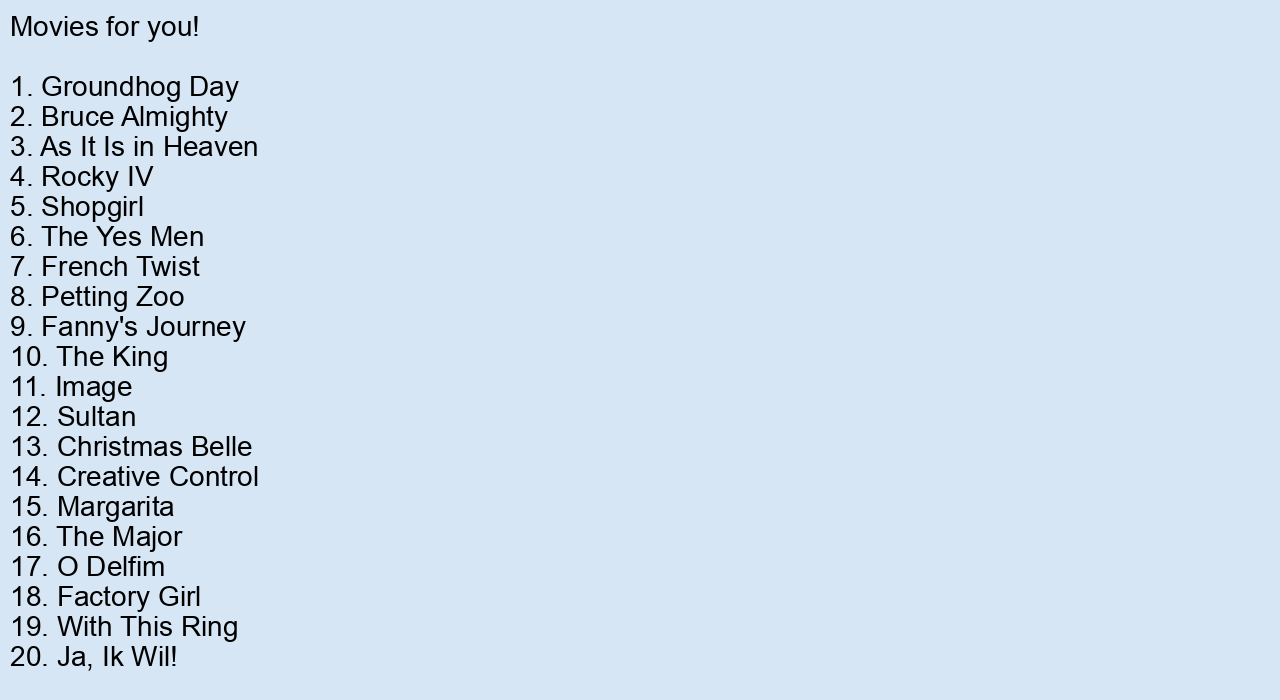
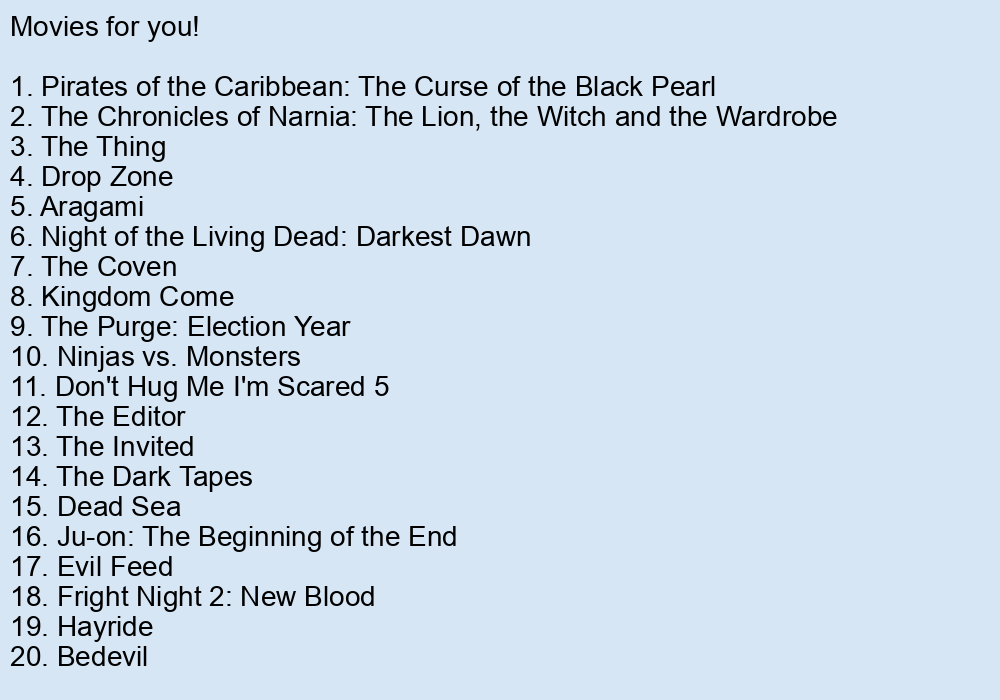
final commit

Changed region(s): [[0.0, 0.09, 0.837, 0.96], [0.0, 0.0, 0.217, 0.06]]

diff --git a/pages/templates/output.html b/pages/templates/output.html
@@ -64,6 +64,7 @@
             Released Date : {{ movie.6 }}<br><br>
             Overview : {{ movie.5 }}<br><br>
             Vote Average : {{ movie.4 }}<br><br>
+            Expected Rating (AI) : {{ movie.9 }}<br><br>
             <br><br><br>
         {% endfor %}
         <br>

diff --git a/pages/views.py b/pages/views.py
@@ -4,7 +4,7 @@ from .forms import InputForm
 from metadata.models import Movie, Genre, Movie_Genre, First_Genre
 from operator import itemgetter
 from PIL import Image, ImageDraw, ImageFont 
-from .AImodels.model1 import ModelFirst
+from .AImodels.model1_v2 import ModelFirst
 
 import tensorflow as tf
 import numpy as np
@@ -13,7 +13,6 @@ import operator
 import os
 import datetime
 import random
-
 
 sort_movies = {}
 
@@ -32,7 +31,6 @@ def index(req):
     return render(req, 'index.html', res_data)
 
 
-
 def input(request):
     movies = []
     form=InputForm()
@@ -46,9 +44,9 @@ def input(request):
         genre = request.POST.getlist('genre', '')
 
         if(len(search)>=2):
-            print("======================")
+            print("\n\n================================")
             print('searching keword : ', search)
-            print("======================")
+            print("================================")
             res_data = {}#전송할 res_data 생성
 
             qs = Movie.objects.filter(title__contains=search)
@@ -92,7 +90,10 @@ def input(request):
                 request.session['age'] = age
                 request.session['sex'] = sex
                 request.session['genre'] = genre
-                
+                print("\n\n>> Input values")
+                print("age: ",age)
+                print("sex: ",sex)
+                print("genre: ",genre)
                 return redirect('/loading_')
             else:
                 return render(request, 'input.html', {'form': form})
@@ -113,7 +114,7 @@ def search(req):
             id_title[movie[0]] = movie[7]
         
         id_title = sorted(id_title.items())
-        print('===sorted id_title(asc)===')
+        print('\n\n=== sorted id_title(asc) ===')
         print(id_title)
         
         for ids in id_title:
@@ -128,7 +129,7 @@ def search(req):
         for movie in m['movies']:
             id_title[movie[0]] = movie[7]
         id_title = sorted(id_title.items(), reverse=True)
-        print('===sorted id_title(desc)===')
+        print('\n\n=== sorted id_title(desc) ===')
         print(id_title)
         
         for ids in id_title:
@@ -141,7 +142,7 @@ def search(req):
         for movie in m['movies']:
             id_rating[movie[4]] = movie[7]
         id_rating = sorted(id_rating.items(), reverse=True)
-        print('===sorted id_rating===')
+        print('\n\n=== sorted id_rating ===')
         print(id_rating)
         for ids in id_rating:
             for movie in m['movies']:
@@ -156,7 +157,7 @@ def search(req):
         for movie in m['movies']:
             id_date[movie[6]] = movie[7]
         id_date = sorted(id_date.items())
-        print('===sorted date(asc)===')
+        print('\n\n=== sorted date(asc) ===')
         print(id_date)
         for ids in id_date:
             for movie in m['movies']:
@@ -170,7 +171,7 @@ def search(req):
         for movie in m['movies']:
             id_date[movie[6]] = movie[7]
         id_date = sorted(id_date.items(), reverse=True)
-        print('===sorted date(desc)===')
+        print('\n\n=== sorted date(desc) ===')
         print(id_date)
         for ids in id_date:
             for movie in m['movies']:
@@ -183,7 +184,7 @@ def search(req):
 
 def make_image(message):####################
     # Image size
-    W = 1280
+    W = 1000
     H = 700
     bg_color = 'rgb(214, 230, 245)'  # 아이소프트존
 
@@ -204,7 +205,7 @@ def output(request):
     sex = request.session['sex']
     genre = request.session['genre']
     movieId_list = request.session['movie_list']
-    
+    movie_score_list = request.session['movie_score_list'] #평점정보
     
     res_data['age'] = age
     res_data['sex'] = sex
@@ -215,7 +216,7 @@ def output(request):
     movie_list = []
 
     movies = []
-    print('--영화 추천 결과--')####################
+    print('\n\n>> 영화 추천 결과')####################
     for i in range(len(movieId_list)):
         a = Movie.objects.get(id=movieId_list[i])
         info_list = []
@@ -235,6 +236,7 @@ def output(request):
             gn = Genre.objects.get(id=g.genre_id)
             genre_names.append(str(gn))
         info_list.append(genre_names)
+        info_list.append(movie_score_list[i])
         movies.append(info_list)
         res_data['movies'] = movies#res_data에 넣어주기
         sort_movies['movies'] = movies#sort_movies에 넣어주기(sort용 변수)
@@ -329,8 +331,7 @@ def output(request):
     return render(request, 'output.html', res_data)
 
 def loading(request):
-    print('here is loading')
-    #res_data={}
+    
     flag=0
     
     age = int(request.session['age'])
@@ -340,15 +341,14 @@ def loading(request):
         sex=77
     else:
         sex=70
-    #print(age, sex, genre)
 
     # model 1####################
-    print("Model1 시작: ",datetime.datetime.now())
+    print("\n\n>> Model1 시작: ",datetime.datetime.now())
     mf = ModelFirst()
     result = mf.model1(genre)
-    print("추천된 장르(model1): ",result)
+    print(">> 추천된 장르(model1): ",result,"\n\n")
     
-    print("Model2에 넣을 데이터처리 시작: ",datetime.datetime.now())
+    #print(">> Model2에 넣을 데이터처리 시작: ",datetime.datetime.now())
     new_result=[]
 
     # genre_id함수를 통해 장르 이름을 id값으로 반환해주는 반복문
@@ -394,7 +394,7 @@ def loading(request):
     id_score_dict = {} # movieID, 선호도 저장할 딕셔너리
 
     
-    print("Model2 시작: ",datetime.datetime.now())
+    print("\n\n>> Model2 시작: ",datetime.datetime.now())
 
     ####################
     # genre 1 CNN 돌리기
@@ -423,24 +423,31 @@ def loading(request):
         predictions = model2.predict(samples_to_predict)
         id_score_dict[genre3_list[i]]=predictions[0][0]
 
-    print("Model2 끝: ",datetime.datetime.now())
+    #print(">> Model2 끝: ",datetime.datetime.now())
 
 
     # 매칭시켜서 저장해놓은 딕셔너리에서 사용자의 선호도 top 10개 영화 id 찾기
     sorted_dict = sorted(id_score_dict.items(), reverse=True, key=operator.itemgetter(1))
+    print("\n\n>> 영화id, 예상평점")
+    print(sorted_dict)
     
-    recommended_movies = []
-    
+    recommended_movies_id = []
+    recommended_movies_score = []
+
     for i in range(20):#정렬된 영화를 순차적으로 추천 영화에 넣어주기
-        recommended_movies.append(sorted_dict[i][0])
+        recommended_movies_id.append(sorted_dict[i][0])
+        recommended_movies_score.append(str(sorted_dict[i][1]))
+    
+    print("\n\n>> 예상평점 상위 20개 영화의 id, 예상평점")
+    for i in range(20):
+        print(recommended_movies_id[i],end='')
+        print(", ",recommended_movies_score[i])
 
-
-    #res_data['movie_list'] = recommended_movies
-    request.session['movie_list'] = recommended_movies
+    request.session['movie_list'] = recommended_movies_id
+    request.session['movie_score_list']= recommended_movies_score
 
     flag=1
     if(flag==1):
-        print("loading 페이지 끝: ",datetime.datetime.now())
         return redirect('/output')
 
     return render(request, 'loading.html')

diff --git a/pages/AImodels/model1_v2.py b/pages/AImodels/model1_v2.py
@@ -1,12 +1,3 @@
-# -*- coding: utf-8 -*-
-"""model1.ipynb
-
-Automatically generated by Colaboratory.
-
-Original file is located at
-    https://colab.research.google.com/drive/1E37sn1O0tZ-s70MlWQa15kf-u8AgrvEu
-"""
-
 import pandas as pd
 import numpy as np
 import math
@@ -17,12 +8,12 @@ from sklearn.metrics.pairwise import linear_kernel, cosine_similarity
 from sklearn.decomposition import TruncatedSVD
 from sklearn.preprocessing import StandardScaler, MinMaxScaler
 
-# 수정계획 1 : 상위 한개의 장르만 추출하는데 그게 아니라 상위 5개의 장르를 뽑아
+# 수정계획 1 : 상위 한개의 장르만 추출하는데 그게 아니라 상위 3개의 장르를 뽑아
 #             그 중 선택한 장르와 가장 상관관계가 높은 장르를 추천하는 것을 어떨까?
 class ModelFirst:
     def model1(self, selected_genres):
-        df = pd.read_csv('/content/drive/MyDrive/data/user_pref.csv')
-
+        df = pd.read_csv('pages/AImodels/user_pref.csv')
+        corr = np.load('pages/AImodels/corr_save.npy')
         user_pref = df.to_numpy()
         transformer = StandardScaler()
         transformer.fit(user_pref)
@@ -43,31 +34,52 @@ class ModelFirst:
             common_df.iloc[i] = df.iloc[idx]
             i = i + 1
 
-        # common_np = common_df.to_numpy()
+        genre_title = df.columns
+        genre_list = list(genre_title)
+        first_idx = genre_list.index(selected_genres[0])
+        second_idx = genre_list.index(selected_genres[1])
+        co1 = corr[first_idx]
+        co2 = corr[second_idx]
+
+        select_values = common_df.values
+
+        pred1 = (select_values * co1) / np.array([np.abs(co1).sum(axis=0)])
+        pred1_df = pd.DataFrame(pred1, index=common_df.index, columns = common_df.columns)
         index = common_df.index
         result_dict = {}
         for i in index:
-            sorted_tuple = common_df.iloc[i].sort_values(ascending=False)
+            sorted_tuple = pred1_df.iloc[i].sort_values(ascending=False)
             for genre in sorted_tuple.head(5).index.tolist():
                 if genre not in result_dict and genre not in selected_genres:
                     result_dict[genre] = 0
                 if genre not in selected_genres:
                     result_dict[genre] += 1
-
         sorted_result_dict = sorted(result_dict.items(), key=operator.itemgetter(1), reverse=True)
         recommend_genres = []
         for k,v in sorted_result_dict:
             if v >= 450:
                 recommend_genres.append(k)
 
-        corr = np.load('/content/drive/MyDrive/data/corr_save.npy')
+        pred2 = (select_values * co2) / np.array([np.abs(co2).sum(axis=0)])
+        pred_df2 = pd.DataFrame(pred2, index=common_df.index, columns = common_df.columns)
+        index = pred_df2.index
+        result_dict = {}
+        for i in index:
+            sorted_tuple = pred_df2.iloc[i].sort_values(ascending=False)
+            for genre in sorted_tuple.head(5).index.tolist():
+                if genre not in result_dict and genre not in selected_genres:
+                    result_dict[genre] = 0
+                if genre not in selected_genres:
+                    result_dict[genre] += 1
+        sorted_result_dict = sorted(result_dict.items(), key=operator.itemgetter(1), reverse=True)
+        for k,v in sorted_result_dict:
+            if v >= 450 and k not in recommend_genres:
+                recommend_genres.append(k)
 
-        genre_title = df.columns
-        genre_list = list(genre_title)
+        # print(recommend_genres)
+
         first_corr_list = []
         second_corr_list = []
-        first_idx= genre_list.index(selected_genres[0])
-        second_idx = genre_list.index(selected_genres[1])
         for g in recommend_genres:
             idx = genre_list.index(g)
             first_corr_value = corr[first_idx][idx]
@@ -83,16 +95,9 @@ class ModelFirst:
         mean_idx = mean_list.index(max)
 
         result = recommend_genres[mean_idx]
-        
-        while(True): 
-            if result in selected_genres:
-                result_df.drop(result, axis= 1, inplace=True)
-                result = result_df.max().idxmax()
-            else:
-                break
+        # print(result)
 
         temp = selected_genres
         result = list(result.split())
         result = temp+result
         return result
-

diff --git a/pages/forms.py b/pages/forms.py
@@ -14,7 +14,7 @@ class InputForm(forms.Form):
         ('Thriller', '스릴러'),('Horror', '공포'),('History', '역사'),
         ('Science', '과학'),('Fiction', '소설'),('Mystery', '미스터리'),
         ('Foreign', '이국적인'),('Music', '음악'),('Documentary', '다큐멘터리'),
-        ('War', '전쟁'),('Western', '서부'),('TV', 'TV'),('Movie', 'movie'),
+        ('War', '전쟁'),('Western', '서부'),('TV', 'TV'),('Movie', '무비'),
     )
         
     sex = forms.ChoiceField(choices=CHOICES_SEX, label="성별")
